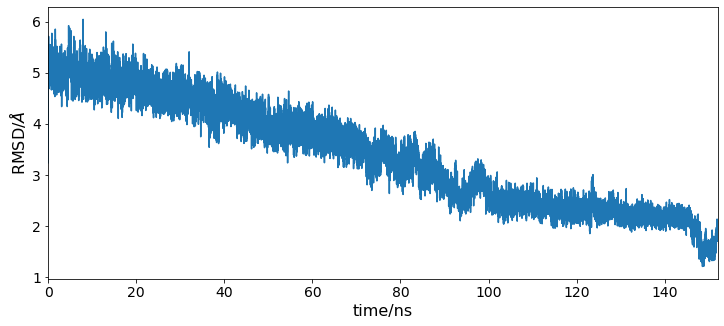
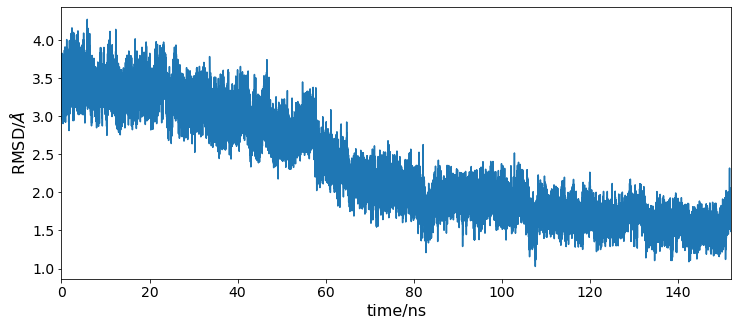
updated traj analysis

diff --git a/02_steered_md/02_trajectory_analysis.md b/02_steered_md/02_trajectory_analysis.md
@@ -1,3 +1,5 @@
+# Steered MD in BioSimSpace
+
 Author: Adele Hardie
 
 Email: adele.hardie@ed.ac.uk
@@ -9,63 +11,97 @@ Email: adele.hardie@ed.ac.uk
 * matplotlib
 * A steered MD trajectory
 
-## Analysing sMD trajectories
 The purpose of the steered MD simulation is to access conformational space that would take a very long time (or be inaccessible altogether) at equilibrium. To generate the data for the Markov State Model, we need to see how the system behaves given some starting conformation. To do this, we will be running seeded MD simulations, where a snapshot from the sMD trajectory is used as a starting point for an equilibrium MD simulation.
 
 Start by importing required libraries:
+
+
 ```python
 import pandas as pd
 import numpy as np
+import matplotlib.pyplot as plt
 import BioSimSpace as BSS
 import os
 ```
 
-#### Visualize the CV progression
-PLUMED outputs a file with the CV value that was used for steering.
+## Plot steering output
+
+PLUMED outputs a file with the CV value that was used for steering, so we can see the progression during the simulation. The file is automatically named `COLVAR` by BioSimSpace. Here it is loaded as a pandas dataframe.
+
+
 ```python
 steering_output_file = 'data/COLVAR'
+df = pd.read_csv(steering_output_file, sep=' ', skipinitialspace=1, comment='#', header=None)
 ```
-This can be read into a pandas dataframe, and the plotted. Note that the time column was originally in ps and the rmsd column was originally in nm (default PLUMED output) and have been converted to ns and &#8491;.
+
+PLUMED outputs time in picoseconds and RMSD in nanometers. For easier plotting, we change time to nanoseconds and RMSD to Angstrom.
+
+
 ```python
-df = pd.read_csv(steering_output_file, sep=' ', comment='#', skipinitialspace=1, names=['time/ns', 'rmsd', 'bias'])
-df['time/ns'] = df['time/ns']/1000
-df['rmsd'] = df['rmsd']*10
-df.set_index('time/ns', inplace=True)
+df[0] = df[0]/1000
+df[1] = df[1]*10
+df.set_index(0, inplace=True)
 ```
+
+Now the RMSD change can be plotted:
+
+
 ```python
-ax = df['rmsd'].plot(figsize=(12,5))
+ax = df[1].plot(figsize=(12,5))
 ax.set_ylabel('RMSD/$\AA$')
+ax.set_xlabel('time/ns')
 ax.set_xlim(0, 152)
 ```
+ 
 <img src="figures/COLVAR_all.png">
-We can see how the WPD loop in PTP1B conformation moves closer and closer to the closed loop crystal structure.
+    
+Here the loop RMSD went down to alomst 1 A. This indicates that the loop conformation was very similar to the crystal structure of PTP1B with the loop closed (which was used as the target) and so we can proceed with extracting snapshots to use as seeds.
 
-#### Select snapshots
-In this case we will be extracting 100 snapshots and saving them as PDB files.
+However, sMD might not work on the first try - the steering duration and force constant used is highly dependent on each individual system. Below is an example of a failed steering attempt:
+
+<img src="figures/COLVAR_failed.png">
+
+Here steering was carried out for 80 ns only, and the force constant used was 2500 kJ mol$^{-1}$. The RMSD was decreasing as expected, but only reached around 2 A. This was deemed insufficient and a longer steering protocol with a larger force constant was decided upon in the end. Ultimately this will depend on the system you are working with and what the goal of the steering is.
+
+## Extract snapshots
+
+In this case we will be extracting 100 evenly spaced snapshots to be used as starting points for the seeded MD simulations.
+
+
 ```python
-snapshot_dir = 'snapshots'
+snapshot_dir = 'data'
 if not os.path.exists(snapshot_dir):
     os.mkdir(snapshot_dir)
 ```
-numpy is used to get evenly spaced indices. The end point used is the end of the steering stage, rather than the end of the entire simulation.
+
+Get frame indices for snapshots. Note that the end point selected is not the end of the simulation, but the end of the steering part.
+
+
 ```python
 number_of_snapshots = 100
-frames = np.linspace(0, 30000, number_of_snapshots, dtype=int)
+end = 150 / 0.002
+frames = np.linspace(0, end, number_of_snapshots, dtype=int)
 ```
-In this case, the RMSD was changing roughly evenly throughout the simulation. However, just to be safe, let's check the RMSD of the chosen 100 frames only.
-```python
-ax = df['rmsd'].iloc[frames].plot(figsize=(12,5))
-ax.set_ylabel('RMSD/$\AA$')
-ax.set_xlim(0, 152)
-```
-<img src="figures/COLVAR_snapshots.png">
-The snapshots sample a large range of RMSD values.
 
-#### Save snapshots
-Each snapshot is then saved as a PDB. We can use BioSimSpace to load a specific frame of a trajectory only.
+Check that the snapshots roughly even sample the RMSD range:
+
+
+```python
+ax = df[1].iloc[frames].plot(figsize=(12,5))
+ax.set_ylabel('RMSD/$\AA$')
+ax.set_xlabel('time/ns')
+ax.set_xlim(0, 150)
+```
+
+<img src="figures/COLVAR_snapshots.png">
+
+Save each snapshot as a PDB:
+
+
 ```python
 for i, index in enumerate(frames):
-    frame = BSS.Trajectory.getFrame(trajectory='data/sMD.nc', topology = 'data/system.prm7', index=int(index))
+    frame = BSS.Trajectory.getFrame(trajectory='/home/adele/Documents/PTP1B/steering.nc', topology = '/home/adele/Documents/PTP1B/system.prm7', index=int(index))
     BSS.IO.saveMolecules(f'{snapshot_dir}/snapshot_{i+1}', frame, 'pdb')
 ```
+
 These PDB files are to be used as starting points for 100 individual 100 ns simulations, starting with resolvation, minimisation and equilibration. This is very time consuming and best done on an HPC cluster. An [example script](02_run_seededMD.py) that can be used with an array submission is provided. Note that due to the additional phospho residue parameters required it is specific to PTP1B with a peptide substrate, but the `load_system()` function can be easily modified to work with other systems, while the rest of the script is transferable.
